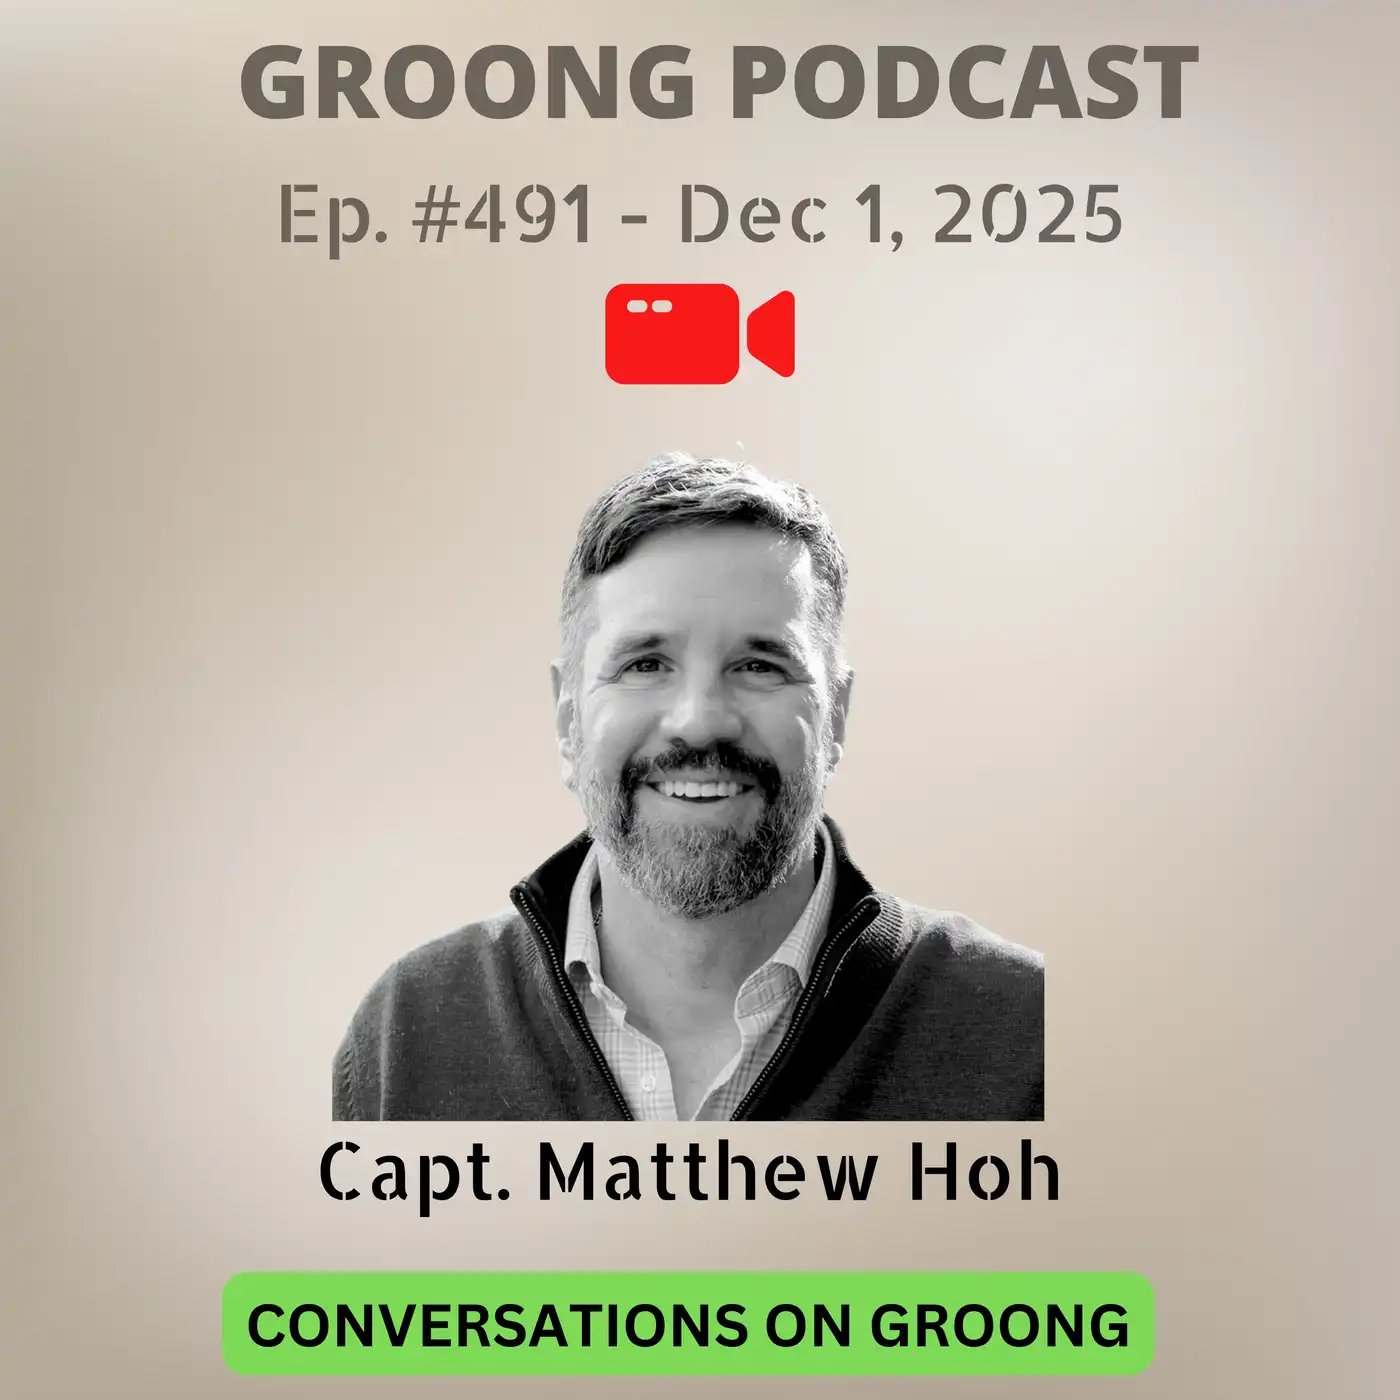
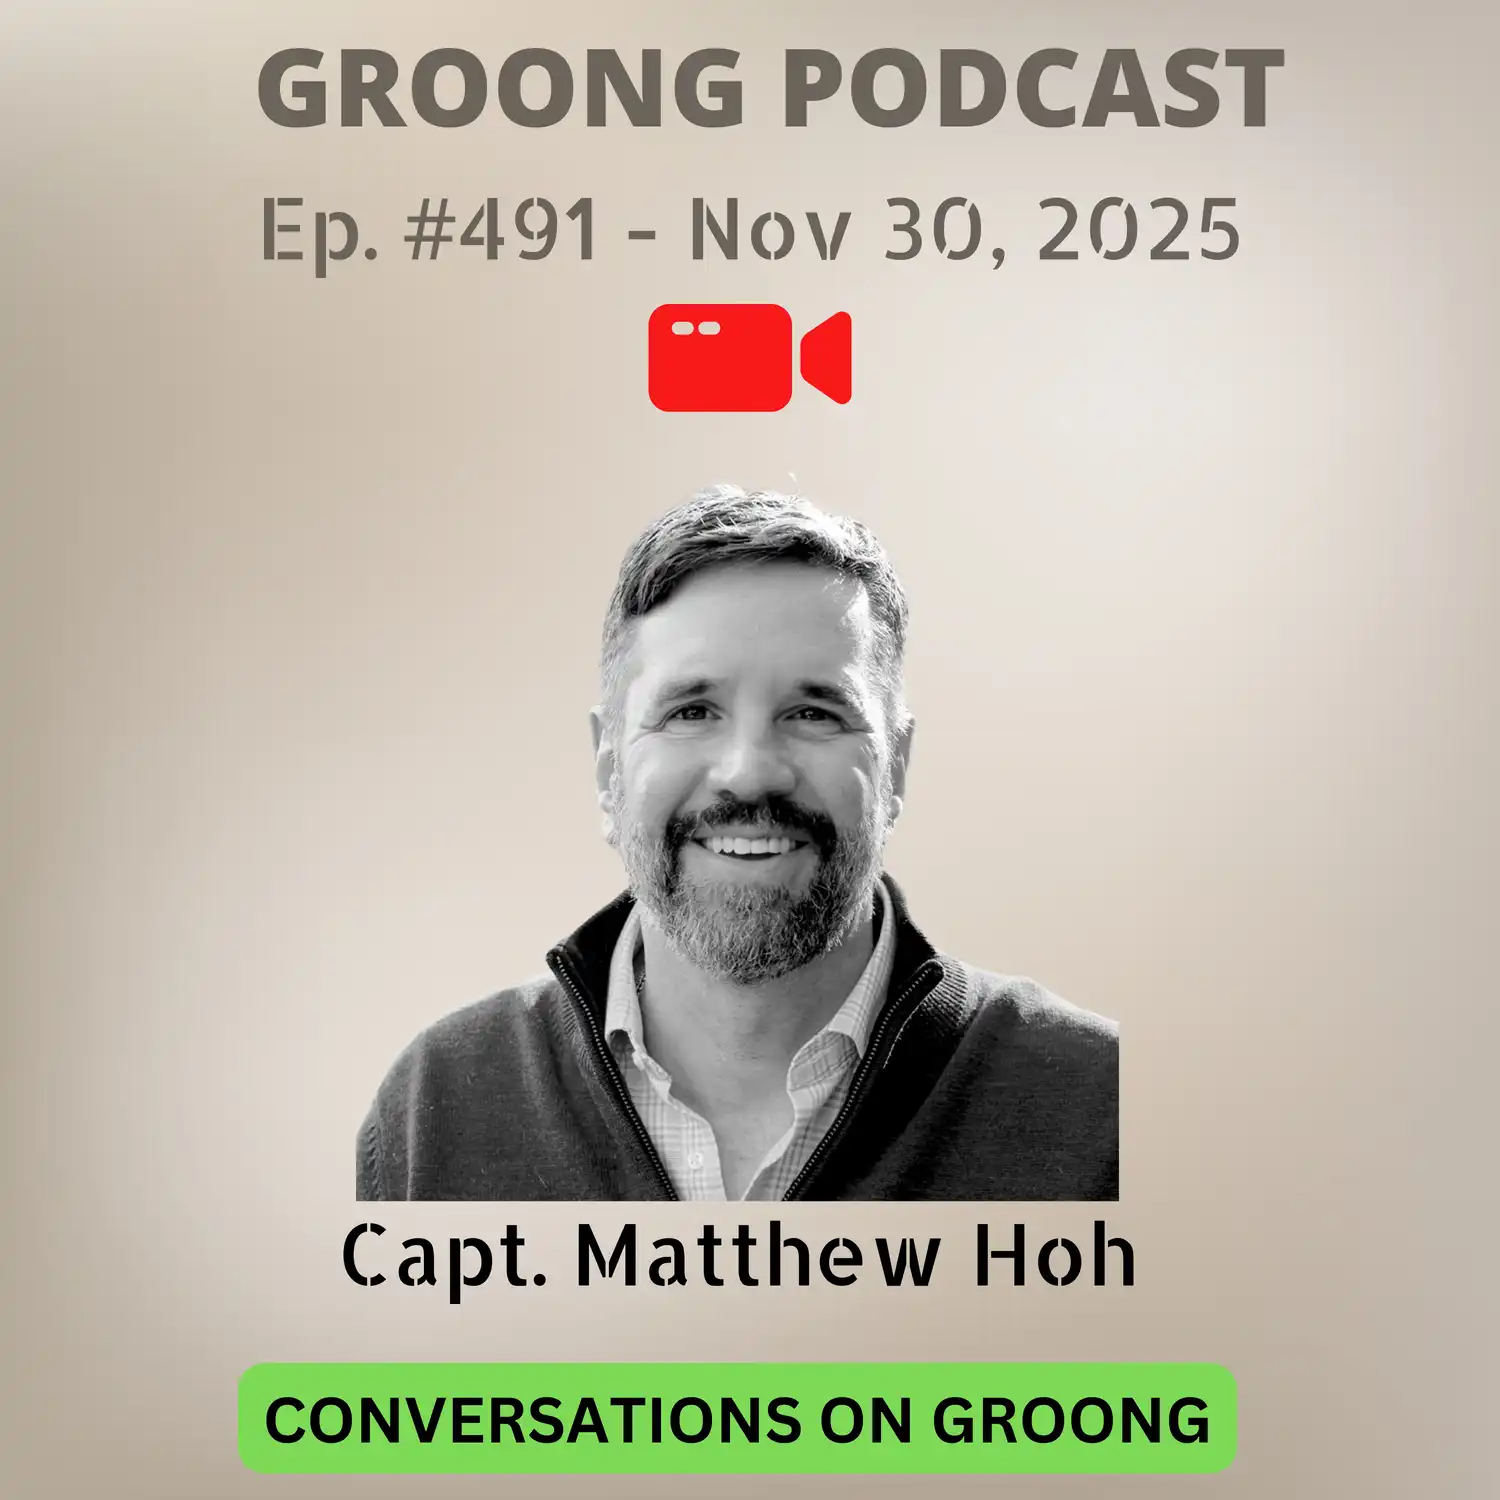
updating Ep 491

Changed region(s): [[0.1536, 0.1229, 0.8293, 0.1843]]

diff --git a/content/episode/491-what-happened-to-america-first-tripp-armenia-ukraine-war-gaza-venezuela.md b/content/episode/491-what-happened-to-america-first-tripp-armenia-ukraine-war-gaza-venezuela.md
@@ -1,14 +1,13 @@
 +++
-Date = 2025-12-01T11:00:00-08:00
-upcoming = true
+Date = 2025-11-30T10:30:00-08:00
 
 title = "Matt Hoh - What Happened to America First, Ukraine, Gaza, TRIPP in Armenia and other US Adventures | Ep 491 - Dec 1, 2025"
 subtitle = "Conversations on Groong - Recorded on: November 29, 2025"
 
-podcast_file = ""
-podcast_duration = ""
-podcast_bytes = ""
-youtube = ""
+podcast_file     = "18272695-matt-hoh-what-happened-to-america-first-tripp-and-other-us-adventures-ep-491-nov-30-2025.mp3"
+podcast_duration = "3558"
+podcast_bytes    = "42740638"
+youtube = "ZZ_n9Mwum30"
 
 episode_image = "img/episode/491/thumbnail-491.webp"
 episode_banner = "img/episode/491/banner-491.webp"
@@ -38,11 +37,57 @@ Description = """
 * Gaza
 * TRIPP in Armenia
 
+Episode 491 | Recorded: November 29, 2024
 
-Episode 491 | Recorded: November 29, 2024"""
+#Venezuela #AmericaFirst #USForeignPolicy #TRIPP #UkraineWar"""
+
 +++
 
+This episode looks at Trump’s foreign policy ten months into his term. We discuss the widening gap between the America First promise and the reality of new foreign fronts, including Venezuela, Ukraine, Gaza, and the TRIPP project in Armenia. Matt Hoh joins us to explain how these issues connect and what they reveal about Washington’s strategic direction.
 
+---
+
+## **Main Topics Addressed**
+
+* Trump’s move to shut down Venezuelan airspace and the risk of escalation
+* The shift in the Ukraine war and the gap between battlefield reality and media coverage
+* The Gaza ceasefire, Trump’s 20-point plan, and the growing divide inside the America First base
+* The TRIPP route in Armenia and the long-term strategic cost for the region
+* How these foreign engagements challenge the core idea of America First
+
+---
+
+## **Key Questions Discussed**
+
+* Why is Washington pushing toward confrontation with **Venezuela**, and what strategy is behind it?
+* Why is there a major disconnect between official warnings on the **Ukraine war** and what appears in mainstream coverage?
+* What is Trump’s actual goal in **Gaza**, and do these actions serve any defined U.S. national interest?
+* Why is the **America First** movement splitting over foreign involvement?
+* Does the **TRIPP** deal align with America First, and is the U.S. prepared for a 50 or 100-year commitment in the South Caucasus?
+* Does Armenia matter to Washington beyond its value in pressuring Russia and Iran?
+
+---
+
+## **Referenced Articles & Sources**
+
+### **Venezuela**
+
+* Trump announces closure of Venezuelan airspace (Reuters):
+  [https://www.reuters.com/world/americas/trump-says-airspace-above-surrounding-venezuela-be-closed-its-entirety-2025-11-29/](https://www.reuters.com/world/americas/trump-says-airspace-above-surrounding-venezuela-be-closed-its-entirety-2025-11-29/)
+* The Intercept on U.S. logistics planning for a Caribbean buildup:
+  [https://theintercept.com/2025/11/25/trump-caribbean-venezuela-military-troops/](https://theintercept.com/2025/11/25/trump-caribbean-venezuela-military-troops/)
+
+### **Ukraine War – Progress in the War**
+
+* NBC News on Dan Driscoll’s warning of “imminent defeat”:
+  [https://www.nbcnews.com/politics/white-house/us-army-secretary-warned-ukraine-imminent-defeat-pushing-initial-peace-rcna245704](https://www.nbcnews.com/politics/white-house/us-army-secretary-warned-ukraine-imminent-defeat-pushing-initial-peace-rcna245704)
+
+### **Ukraine War – Negotiations**
+
+* Putin reiterates territorial demands (Sonar21):
+  [https://sonar21.com/president-putin-reiterates-june-14-2024-conditions-for-ending-the-war-with-ukraine/](https://sonar21.com/president-putin-reiterates-june-14-2024-conditions-for-ending-the-war-with-ukraine/)
+* Yermak rules out concessions (The Atlantic):
+  [https://www.theatlantic.com/national-security/2025/11/ukraine-zelensky-russia-trump-peace-land-red-line/685090/](https://www.theatlantic.com/national-security/2025/11/ukraine-zelensky-russia-trump-peace-land-red-line/685090/)
 
 # Wrap-up
 
